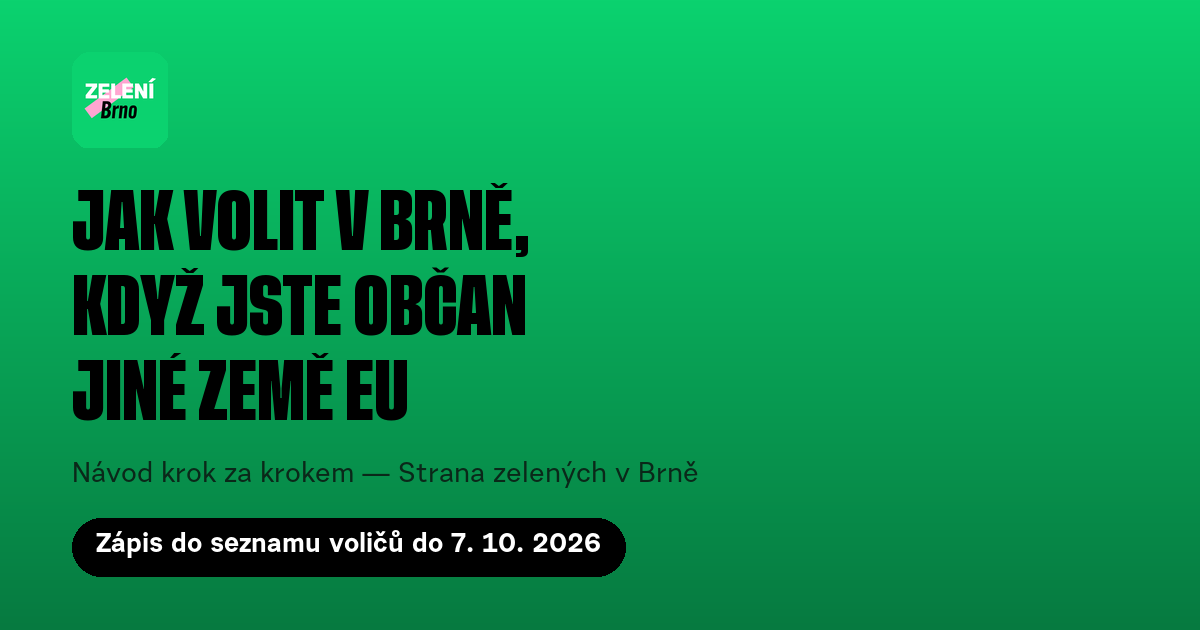
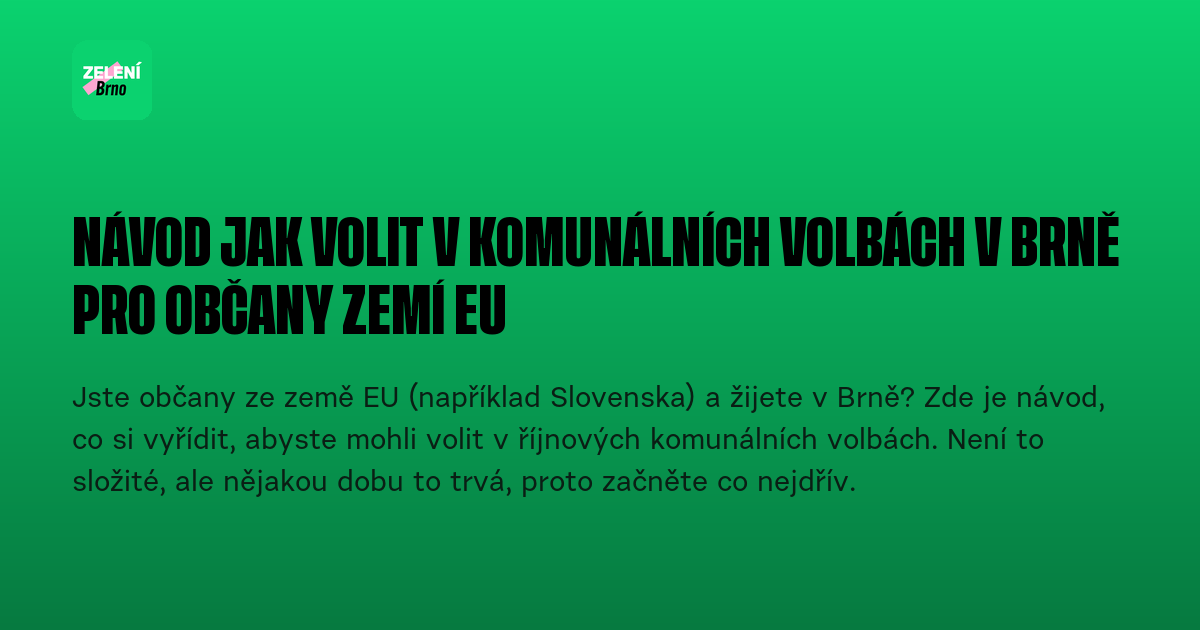
Redo the social preview image with the requested copy
Replace the hero-style headline/chip with the specific title and
body text provided, and align og:title/og:description with the
same copy for consistency across the share card and link previews.

Changed region(s): [[0.0617, 0.3016, 0.9558, 0.7841], [0.0617, 0.8143, 0.5242, 0.9349], [0.0617, 0.0905, 0.1542, 0.2111]]

diff --git a/index.html b/index.html
@@ -17,17 +17,17 @@
 <meta property="og:locale:alternate" content="en_US">
 <meta property="og:site_name" content="Volby v Brně 2026">
 <meta property="og:url" content="https://volbyvbrne.cz/">
-<meta property="og:title" content="Jak volit v Brně, když jste občan jiné země EU">
-<meta property="og:description" content="Návod krok za krokem: jak si zařídit doklad o pobytu a zapsat se do seznamu voličů pro komunální volby v Brně 2026.">
+<meta property="og:title" content="Návod jak volit v komunálních volbách v Brně pro občany zemí EU">
+<meta property="og:description" content="Jste občany ze země EU (například Slovenska) a žijete v Brně? Zde je návod, co si vyřídit, abyste mohli volit v říjnových komunálních volbách. Není to složité, ale nějakou dobu to trvá, proto začněte co nejdřív.">
 <meta property="og:image" content="https://volbyvbrne.cz/assets/og-image.png">
 <meta property="og:image:width" content="1200">
 <meta property="og:image:height" content="630">
-<meta property="og:image:alt" content="Jak volit v Brně, když jste občan jiné země EU — Strana zelených v Brně">
+<meta property="og:image:alt" content="Návod jak volit v komunálních volbách v Brně pro občany zemí EU — Strana zelených v Brně">
 
 <!-- Twitter / X -->
 <meta name="twitter:card" content="summary_large_image">
-<meta name="twitter:title" content="Jak volit v Brně, když jste občan jiné země EU">
-<meta name="twitter:description" content="Návod krok za krokem: jak si zařídit doklad o pobytu a zapsat se do seznamu voličů pro komunální volby v Brně 2026.">
+<meta name="twitter:title" content="Návod jak volit v komunálních volbách v Brně pro občany zemí EU">
+<meta name="twitter:description" content="Jste občany ze země EU (například Slovenska) a žijete v Brně? Zde je návod, co si vyřídit, abyste mohli volit v říjnových komunálních volbách. Není to složité, ale nějakou dobu to trvá, proto začněte co nejdřív.">
 <meta name="twitter:image" content="https://volbyvbrne.cz/assets/og-image.png">
 <meta name="twitter:image:alt" content="Jak volit v Brně, když jste občan jiné země EU — Strana zelených v Brně">
 